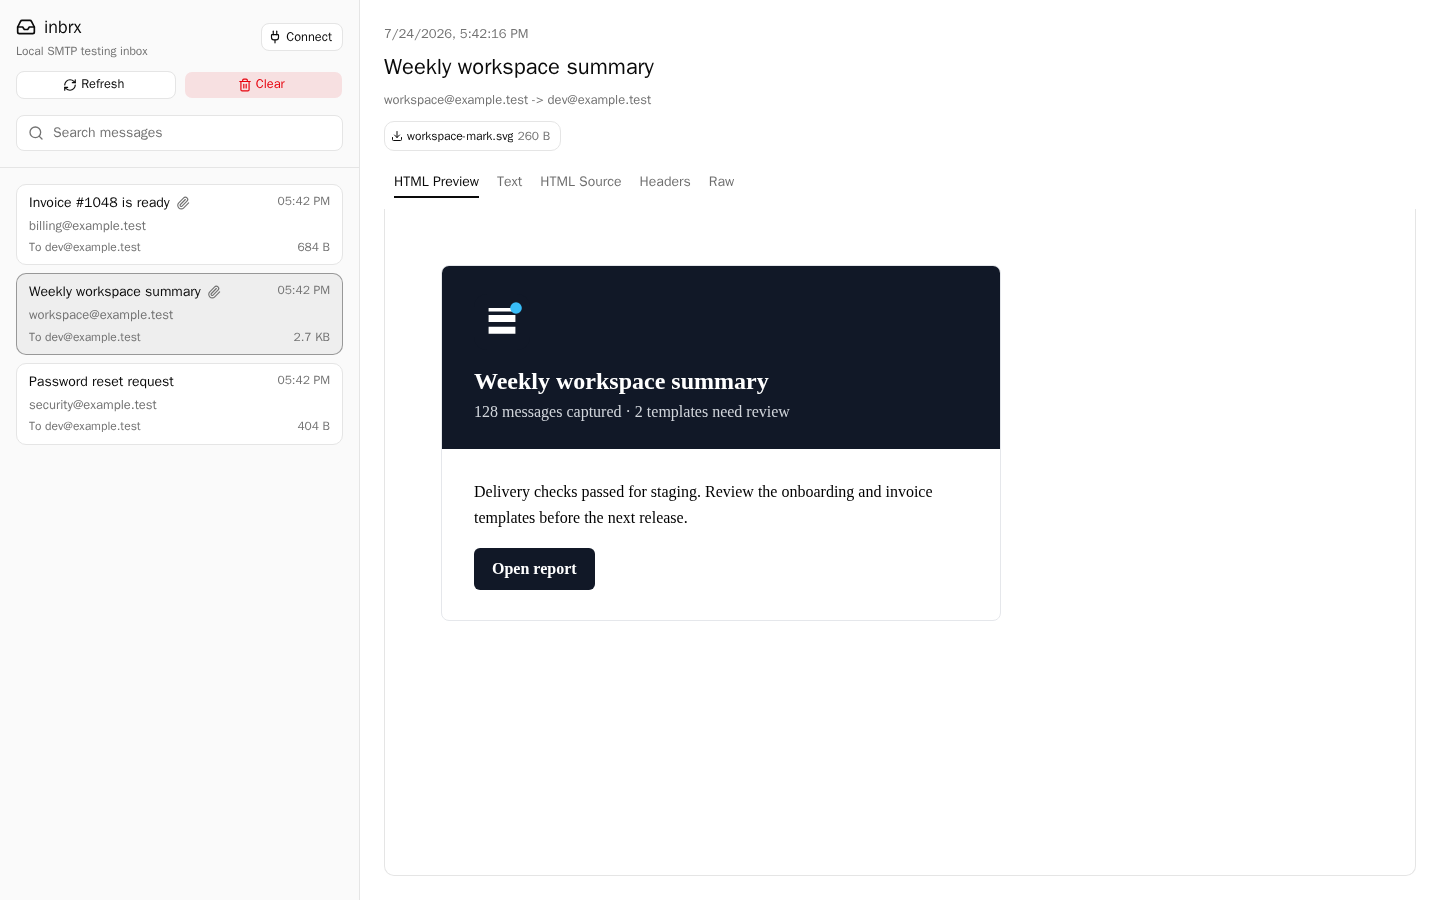
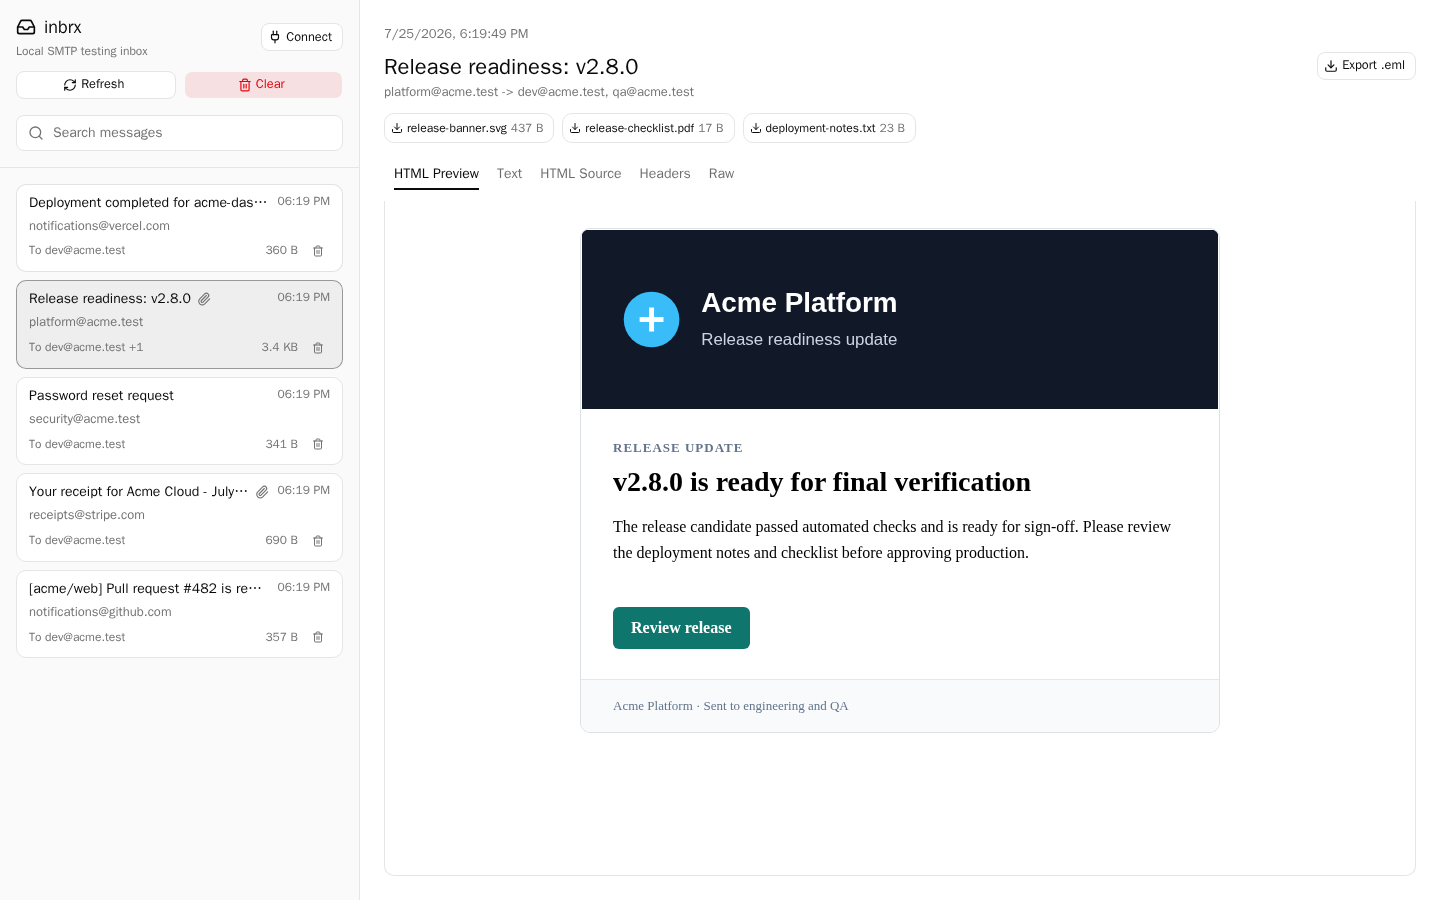
feat: update message delete button labels and styles

diff --git a/packages/web/src/components/message-sidebar.test.tsx b/packages/web/src/components/message-sidebar.test.tsx
@@ -39,7 +39,7 @@ describe('MessageSidebar', () => {
     );
 
     const row = screen.getByText('First message');
-    const rowDeleteButton = within(row.closest('div') as HTMLDivElement).getByRole('button', { name: /^Delete$/ });
+    const rowDeleteButton = within(row.closest('div') as HTMLDivElement).getByRole('button', { name: 'Delete message' });
 
     act(() => {
       fireEvent.click(rowDeleteButton);
@@ -85,7 +85,7 @@ describe('MessageSidebar', () => {
     );
 
     const row = screen.getByText('First message');
-    const rowDeleteButton = within(row.closest('div') as HTMLDivElement).getByRole('button', { name: /^Deleting...$/ });
+    const rowDeleteButton = within(row.closest('div') as HTMLDivElement).getByRole('button', { name: 'Deleting message' });
 
     expect(rowDeleteButton).toHaveProperty('disabled', true);
   });

diff --git a/packages/web/src/components/message-sidebar.tsx b/packages/web/src/components/message-sidebar.tsx
@@ -256,8 +256,10 @@ function MessageListItem({
           <Button
             type="button"
             variant="ghost"
-            size="xs"
+            size="icon-xs"
+            aria-label={isDeleting ? 'Deleting message' : 'Delete message'}
             disabled={isDeleting}
+            title={isDeleting ? 'Deleting message' : 'Delete message'}
             onClick={(event) => {
               event.stopPropagation();
               onRequestDelete(message.id);
@@ -267,7 +269,6 @@ function MessageListItem({
             }}
           >
             <Trash2 data-icon="inline-start" />
-            {isDeleting ? 'Deleting...' : 'Delete'}
           </Button>
         </span>
       </span>

diff --git a/packages/web/src/styles.css b/packages/web/src/styles.css
@@ -27,6 +27,12 @@
 }
 
 @layer components {
+  [data-slot='scroll-area-viewport'] > div {
+    display: block !important;
+    min-width: 0 !important;
+    width: 100% !important;
+  }
+
   .inbrx-code .hljs-keyword,
   .inbrx-code .hljs-built_in,
   .inbrx-code .hljs-literal,
